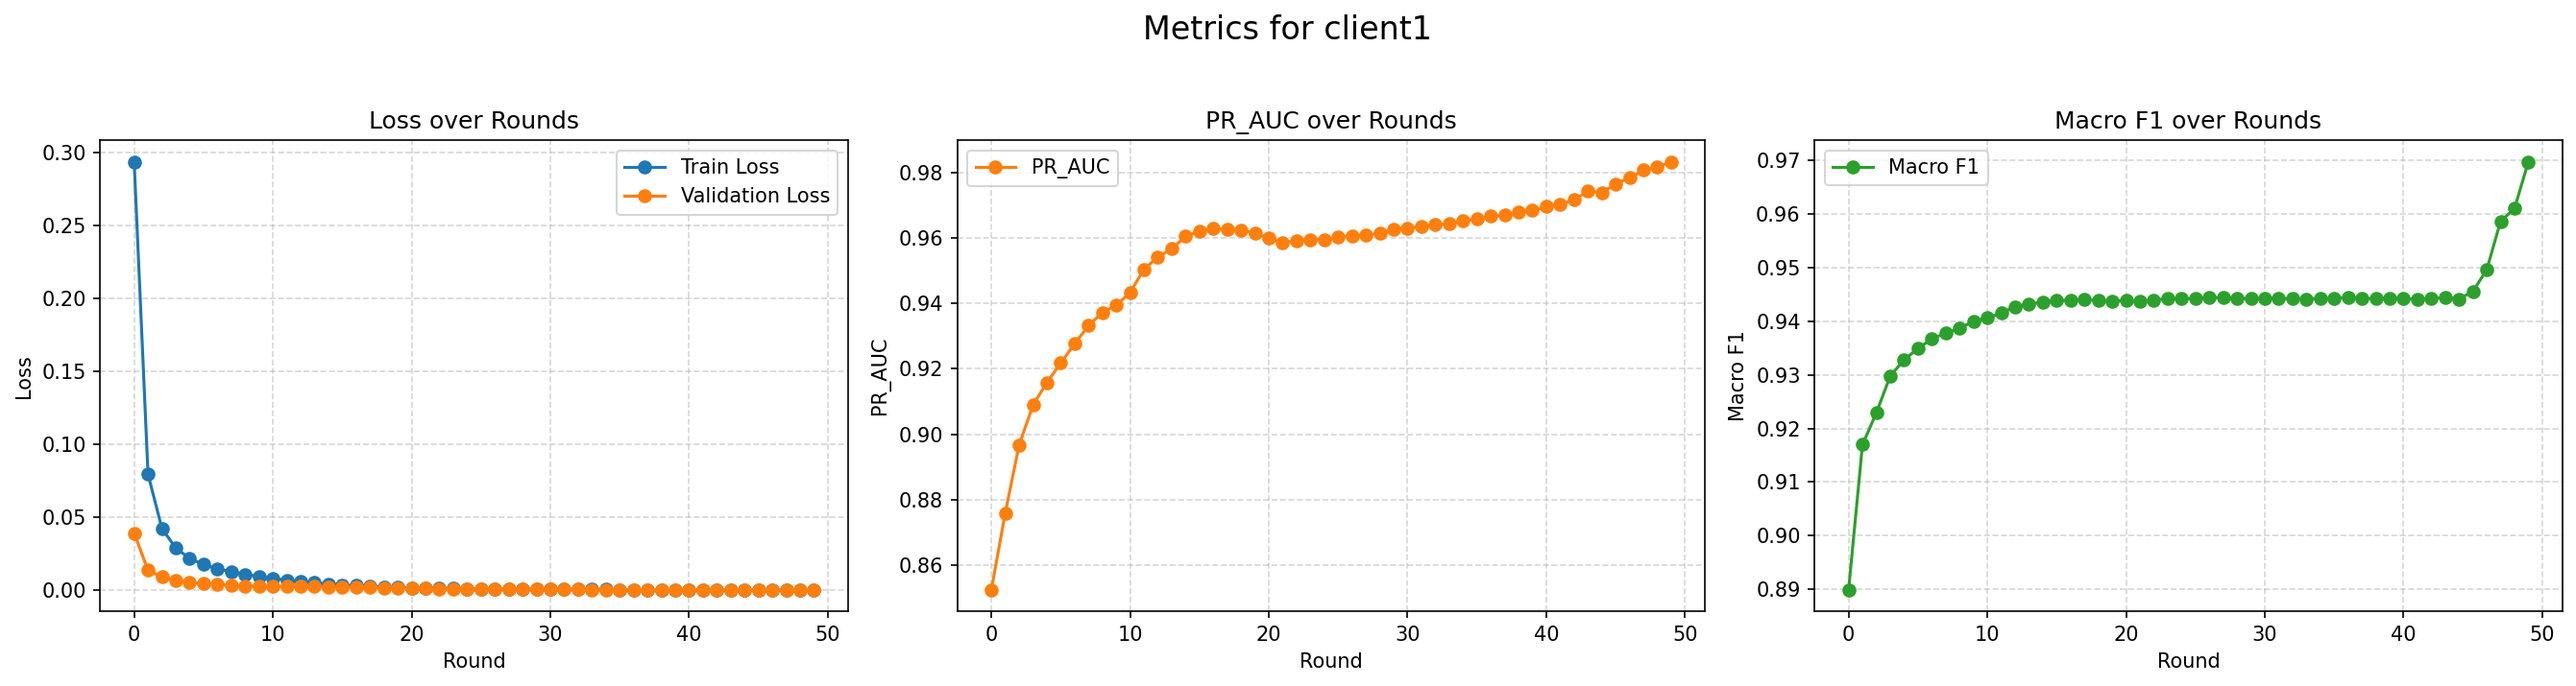
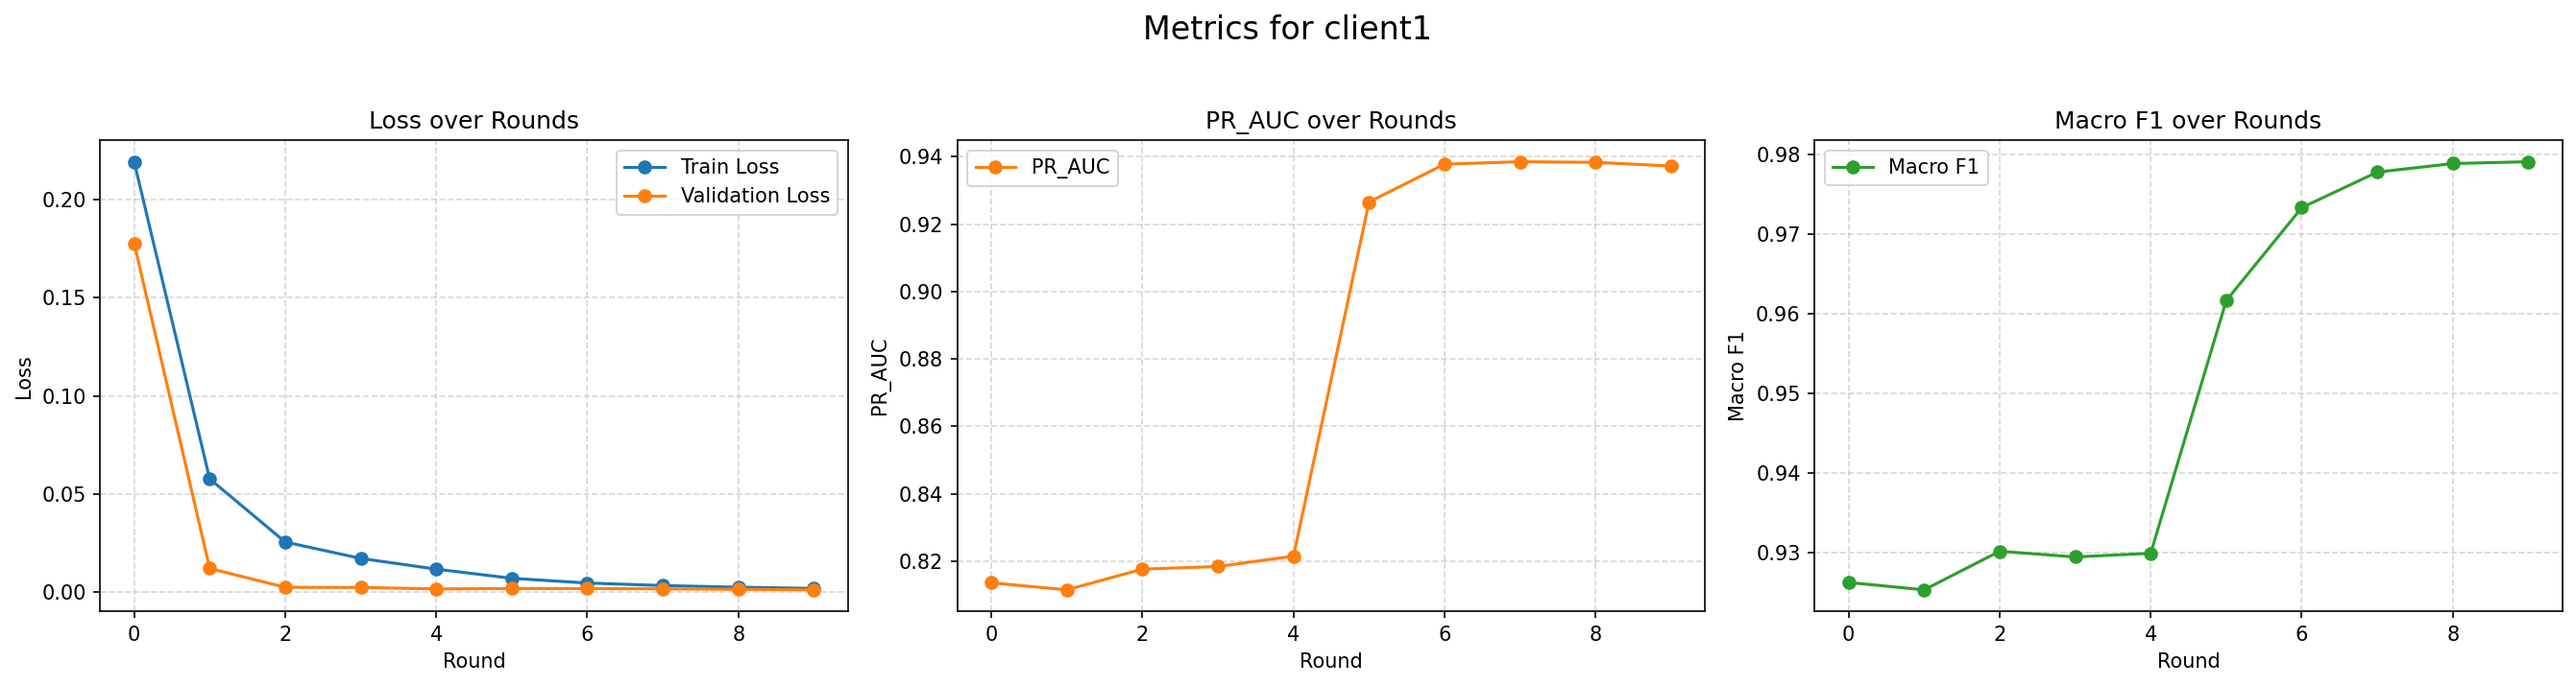
early stopping, gen eval with bugs

diff --git a/federated/jobs/nids_fedavg/app/custom/nids_trainer.py b/federated/jobs/nids_fedavg/app/custom/nids_trainer.py
@@ -47,6 +47,7 @@ class NIDSTrainer(Executor):
         positional_encoding=None,
         client_id: str = None,
         checkpoint_dir: str = "checkpoints",
+        early_stop_patience: int = 3,
     ):
         super().__init__()
         self.data_dir = data_dir
@@ -71,6 +72,7 @@ class NIDSTrainer(Executor):
         self.positional_encoding = positional_encoding
         self.client_id = client_id
         self.checkpoint_dir = checkpoint_dir
+        self.early_stop_patience = early_stop_patience
 
         # Initialized lazily on first round
         self.model = None
@@ -79,7 +81,10 @@ class NIDSTrainer(Executor):
         self.val_loader = None
 
         # Best-model tracking and per-round metrics across rounds
-        self.best_val_pr_auc = 0.0
+        self.best_global_val_pr_auc = 0.0
+        self.best_local_val_pr_auc = float("-inf")
+        self.rounds_no_improve = 0
+        self.early_stopped = False
         self.metrics_history: list = []
 
     # ------------------------------------------------------------------ #
@@ -139,6 +144,9 @@ class NIDSTrainer(Executor):
 
         self.log_info(fl_ctx, f"Model ready — edim_in={edim_in}, device={device}")
 
+    def _clone_state_dict(self):
+        return {k: v.detach().cpu().clone() for k, v in self.model.state_dict().items()}
+
     # ------------------------------------------------------------------ #
     # Training round                                                       #
     # ------------------------------------------------------------------ #
@@ -159,6 +167,7 @@ class NIDSTrainer(Executor):
         global_weights = {k: v.clone().cpu() for k, v in global_params.items()}
 
         current_round = dxo.get_meta_prop("current_round", 0)
+        site_name = fl_ctx.get_identity_name()
 
         # --- 2. Validate global model and save best checkpoint ---
         _, val_errors, val_labels = validate(
@@ -171,15 +180,14 @@ class NIDSTrainer(Executor):
         threshold = find_threshold(val_errors, val_labels, method="supervised")
         val_pred = (val_errors > threshold).int()
         val_f1 = f1_score(val_labels.cpu(), val_pred.cpu(), average="macro", zero_division=0)
-        site_name = fl_ctx.get_identity_name()
         self.log_info(
             fl_ctx,
             f"Round {current_round} — global model: val_pr_auc={val_pr_auc:.4f}, "
             f"val_macro_f1={val_f1:.4f}, threshold={threshold:.6f}",
         )
 
-        if val_pr_auc >= self.best_val_pr_auc:
-            self.best_val_pr_auc = val_pr_auc
+        if val_pr_auc >= self.best_global_val_pr_auc:
+            self.best_global_val_pr_auc = val_pr_auc
             os.makedirs(self.checkpoint_dir, exist_ok=True)
             ckpt_path = os.path.join(self.checkpoint_dir, f"best_global_model_{site_name}.pt")
             torch.save(
@@ -194,6 +202,23 @@ class NIDSTrainer(Executor):
             )
             self.log_info(fl_ctx, f"  New best model saved → {ckpt_path}")
 
+        if self.early_stopped:
+            self.log_info(
+                fl_ctx,
+                f"Round {current_round} — early-stopped; skipping local training and sending zero diff",
+            )
+            zero_diff = {k: torch.zeros_like(v).cpu().numpy() for k, v in global_weights.items()}
+            out_dxo = DXO(
+                data_kind=DataKind.WEIGHT_DIFF,
+                data=zero_diff,
+                meta={
+                    "num_steps_current_round": 0,
+                    "early_stopped": True,
+                    "rounds_no_improve": self.rounds_no_improve,
+                },
+            )
+            return out_dxo.to_shareable()
+
         # --- 3. Local training ---
         self.log_info(
             fl_ctx,
@@ -201,64 +226,133 @@ class NIDSTrainer(Executor):
         )
 
         total_train_loss = 0.0
+        best_round_state = None
+        best_round_epoch = None
+        best_round_metrics = None
+
         for epoch in range(self.local_epochs):
             if abort_signal.triggered:
                 return make_reply(ReturnCode.TASK_ABORTED)
             epoch_loss = self._run_epoch(abort_signal)
             total_train_loss += epoch_loss
+
+            val_loss_local, val_errors_local, val_labels_local = validate(
+                self.model, self.val_loader, self.ae_batch_size, self.window_size, device
+            )
+            # Macro PR-AUC for binary classification: average of positive and negative class PR-AUCs
+            pr_auc_pos_local = average_precision_score(val_labels_local.cpu(), val_errors_local.cpu())
+            pr_auc_neg_local = average_precision_score(1 - val_labels_local.cpu(), 1 - val_errors_local.cpu())
+            val_pr_auc_local = (pr_auc_pos_local + pr_auc_neg_local) / 2
+            threshold_local = find_threshold(val_errors_local, val_labels_local, method="supervised")
+            val_pred_local = (val_errors_local > threshold_local).int()
+            val_f1_local = f1_score(
+                val_labels_local.cpu(), val_pred_local.cpu(), average="macro", zero_division=0
+            )
+
             self.log_info(
                 fl_ctx,
-                f"  Epoch {epoch + 1}/{self.local_epochs} — loss: {epoch_loss:.6f}",
+                f"  Epoch {epoch + 1}/{self.local_epochs} — loss: {epoch_loss:.6f}, "
+                f"val_loss: {val_loss_local:.6f}, val_pr_auc: {val_pr_auc_local:.4f}, "
+                f"val_macro_f1: {val_f1_local:.4f}",
             )
+
+            if best_round_metrics is None or val_pr_auc_local > best_round_metrics["val_pr_auc"]:
+                best_round_state = self._clone_state_dict()
+                best_round_epoch = epoch + 1
+                best_round_metrics = {
+                    "val_loss": val_loss_local,
+                    "val_pr_auc": val_pr_auc_local,
+                    "val_macro_f1": val_f1_local,
+                    "threshold": threshold_local,
+                }
+
         total_train_loss /= max(self.local_epochs, 1)
 
-        # Validate locally-trained model and print round summary (mirrors centralized postfix)
-        val_loss_local, val_errors_local, val_labels_local = validate(
-            self.model, self.val_loader, self.ae_batch_size, self.window_size, device
-        )
-        # Macro PR-AUC for binary classification: average of positive and negative class PR-AUCs
-        pr_auc_pos_local = average_precision_score(val_labels_local.cpu(), val_errors_local.cpu())
-        pr_auc_neg_local = average_precision_score(1 - val_labels_local.cpu(), 1 - val_errors_local.cpu())
-        val_pr_auc_local = (pr_auc_pos_local + pr_auc_neg_local) / 2
-        threshold_local = find_threshold(val_errors_local, val_labels_local, method="supervised")
-        val_pred_local = (val_errors_local > threshold_local).int()
-        val_f1_local = f1_score(val_labels_local.cpu(), val_pred_local.cpu(), average="macro", zero_division=0)
+        if best_round_state is None:
+            best_round_state = self._clone_state_dict()
+            best_round_epoch = self.local_epochs
+            best_round_metrics = {
+                "val_loss": 0.0,
+                "val_pr_auc": float("-inf"),
+                "val_macro_f1": 0.0,
+                "threshold": 0.0,
+            }
+
         separator = "-" * 80
         self.log_info(fl_ctx, separator)
         self.log_info(
             fl_ctx,
             f"Round {current_round} complete — "
-            f"train_loss={total_train_loss:.6f}, val_loss={val_loss_local:.6f}, "
-            f"val_pr_auc={val_pr_auc_local:.4f}, val_macro_f1={val_f1_local:.4f}",
+            f"train_loss={total_train_loss:.6f}, val_loss={best_round_metrics['val_loss']:.6f}, "
+            f"val_pr_auc={best_round_metrics['val_pr_auc']:.4f}, "
+            f"val_macro_f1={best_round_metrics['val_macro_f1']:.4f}",
         )
         self.log_info(fl_ctx, separator)
 
+        os.makedirs(self.checkpoint_dir, exist_ok=True)
+        local_ckpt_path = os.path.join(
+            self.checkpoint_dir, f"best_local_model_{site_name}_round_{current_round}.pt"
+        )
+        torch.save(
+            {
+                "model_state_dict": best_round_state,
+                "round": current_round,
+                "epoch": best_round_epoch,
+                "val_pr_auc": best_round_metrics["val_pr_auc"],
+                "val_macro_f1": best_round_metrics["val_macro_f1"],
+                "val_loss": best_round_metrics["val_loss"],
+                "threshold": best_round_metrics["threshold"],
+            },
+            local_ckpt_path,
+        )
+
         # Persist per-round metrics for post-training reporting
-        self.metrics_history.append({
-            "round": current_round,
-            "train_loss": total_train_loss,
-            "val_loss": val_loss_local,
-            "val_pr_auc": val_pr_auc_local,
-            "val_macro_f1": val_f1_local,
-        })
+        self.metrics_history.append(
+            {
+                "round": current_round,
+                "train_loss": total_train_loss,
+                "val_loss": best_round_metrics["val_loss"],
+                "val_pr_auc": best_round_metrics["val_pr_auc"],
+                "val_macro_f1": best_round_metrics["val_macro_f1"],
+                "best_epoch": best_round_epoch,
+            }
+        )
         os.makedirs(self.checkpoint_dir, exist_ok=True)
         metrics_path = os.path.join(self.checkpoint_dir, f"metrics_history_{site_name}.json")
         with open(metrics_path, "w") as _f:
             json.dump(self.metrics_history, _f, indent=2)
 
+        if best_round_metrics["val_pr_auc"] > self.best_local_val_pr_auc:
+            self.best_local_val_pr_auc = best_round_metrics["val_pr_auc"]
+            self.rounds_no_improve = 0
+        else:
+            self.rounds_no_improve += 1
+            if self.rounds_no_improve >= self.early_stop_patience:
+                self.early_stopped = True
+                self.log_info(
+                    fl_ctx,
+                    f"Early stop triggered after {self.rounds_no_improve} rounds without improvement",
+                )
+
         # --- 4. Compute weight diff and convert to numpy for DXO ---
-        local_weights = self.model.state_dict()
-        weight_diff = {
-            k: (local_weights[k].cpu() - global_weights[k]).numpy()
-            for k in local_weights
-        }
+        if self.early_stopped:
+            weight_diff = {k: torch.zeros_like(v).cpu().numpy() for k, v in global_weights.items()}
+        else:
+            weight_diff = {
+                k: (best_round_state[k] - global_weights[k]).numpy()
+                for k in global_weights
+            }
 
         # --- 5. Return as DXO (stable across all NVFlare versions) ---
         num_samples = len(self.train_loader.dataset) if hasattr(self.train_loader, "dataset") else 1
         out_dxo = DXO(
             data_kind=DataKind.WEIGHT_DIFF,
             data=weight_diff,
-            meta={"num_steps_current_round": num_samples},
+            meta={
+                "num_steps_current_round": num_samples,
+                "early_stopped": self.early_stopped,
+                "rounds_no_improve": self.rounds_no_improve,
+            },
         )
         return out_dxo.to_shareable()
 

diff --git a/federated/jobs/nids_fedavg/app/custom/early_stop_fedavg.py b/federated/jobs/nids_fedavg/app/custom/early_stop_fedavg.py
@@ -1,0 +1,57 @@
+from nvflare.app_common.app_constant import AppConstants
+from nvflare.app_common.workflows.fedavg import FedAvg
+from nvflare.fuel.utils.log_utils import center_message
+
+
+class EarlyStopFedAvg(FedAvg):
+    def __init__(self, *args, early_stop_min_clients=None, **kwargs):
+        super().__init__(*args, **kwargs)
+        if early_stop_min_clients is None:
+            early_stop_min_clients = self.num_clients
+        self.early_stop_min_clients = early_stop_min_clients
+        self._early_stopped_clients = set()
+
+    def _update_early_stopped_clients(self, results):
+        for result in results:
+            if not result or not result.meta:
+                continue
+            if result.meta.get("early_stopped"):
+                client_name = result.meta.get("client_name", AppConstants.CLIENT_UNKNOWN)
+                if client_name:
+                    self._early_stopped_clients.add(client_name)
+
+    def run(self) -> None:
+        self.info(center_message("Start FedAvg (early-stop enabled)."))
+
+        model = self.load_model()
+        model.start_round = self.start_round
+        model.total_rounds = self.num_rounds
+
+        for self.current_round in range(self.start_round, self.start_round + self.num_rounds):
+            self.info(center_message(message=f"Round {self.current_round} started.", boarder_str="-"))
+
+            model.current_round = self.current_round
+
+            clients = self.sample_clients(self.num_clients)
+
+            results = self.send_model_and_wait(targets=clients, data=model)
+            if not results:
+                self.info("No client results received; ending run.")
+                break
+
+            self._update_early_stopped_clients(results)
+            active_results = [r for r in results if not r.meta.get("early_stopped")]
+
+            if len(self._early_stopped_clients) >= self.early_stop_min_clients:
+                self.info(center_message("All clients early-stopped. Ending run."))
+                break
+
+            if not active_results:
+                self.info("All client updates are early-stopped; ending run.")
+                break
+
+            aggregate_results = self.aggregate(active_results, aggregate_fn=self.aggregate_fn)
+            model = self.update_model(model, aggregate_results)
+            self.save_model(model)
+
+        self.info(center_message("Finished FedAvg."))
